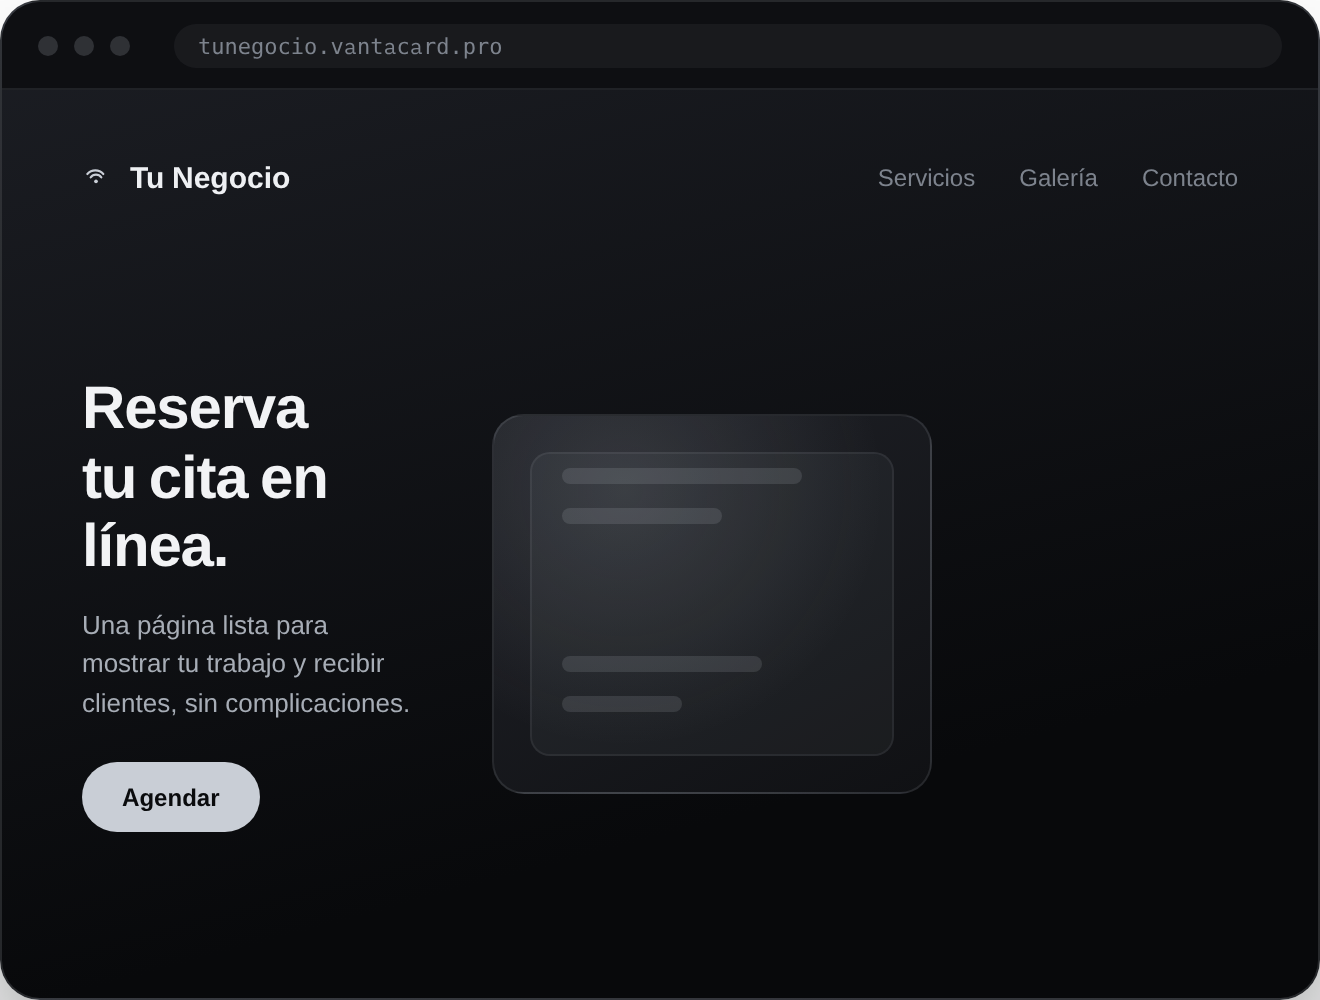
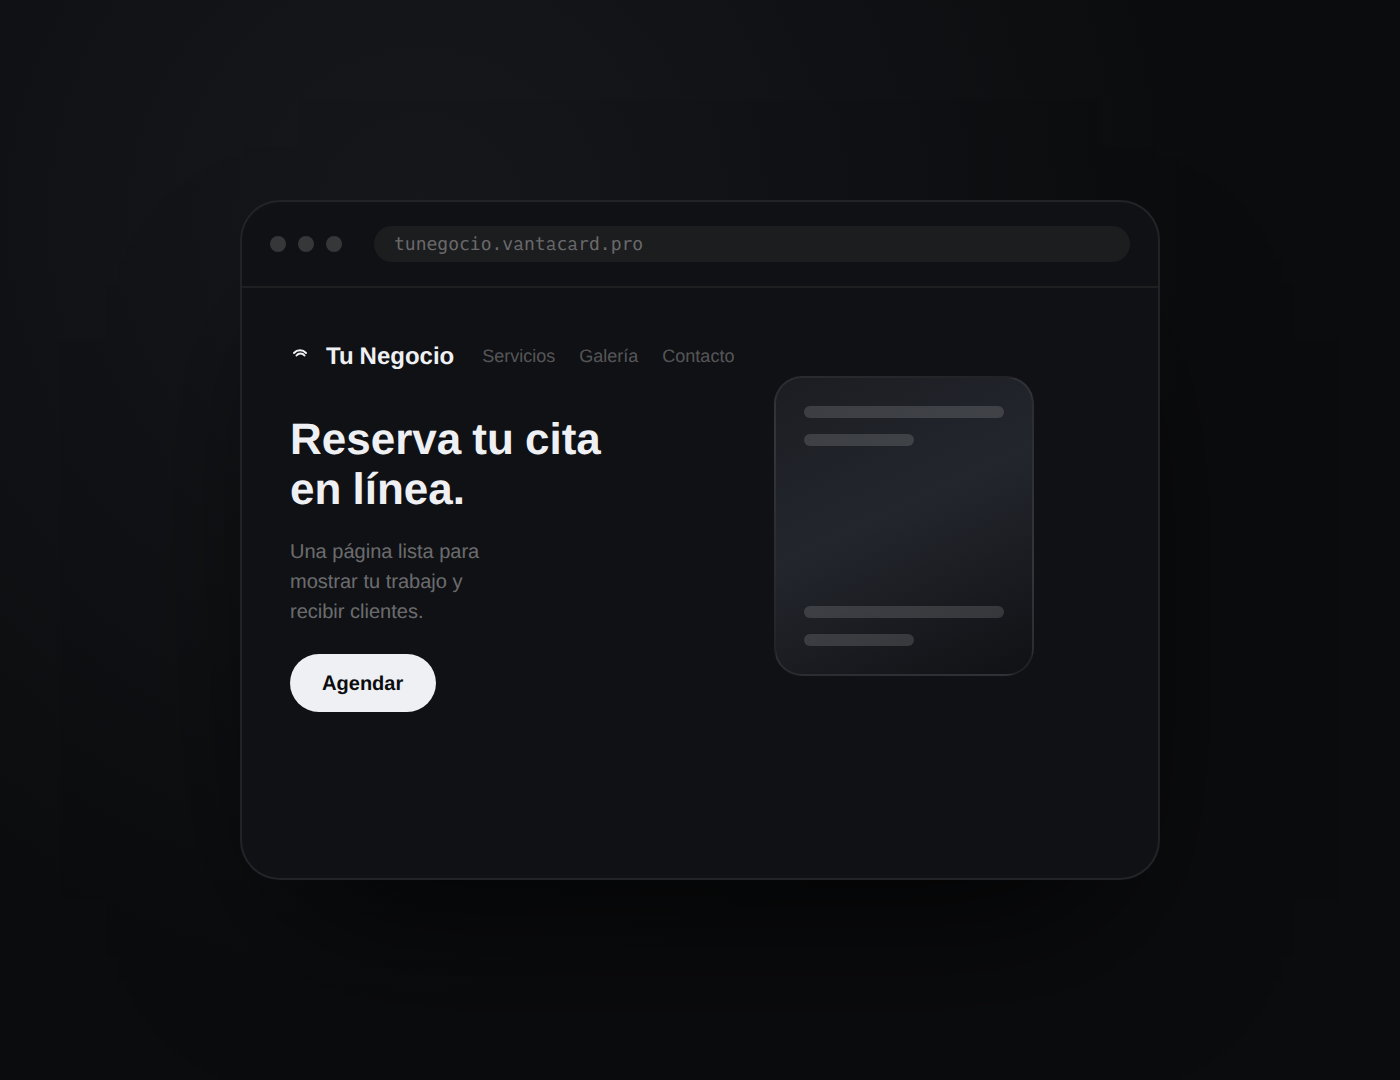
Refresh the three "Nuestros servicios" illustrations
- Website card: shrunk the browser mockup with more surrounding
  space so it reads as smaller within its tile.
- Cards card: replaced the two-card mockup with three blank,
  cascading dark cards floating at an angle, matching the reference
  the user provided.
- Digital-card tile: replaced the reused phone mockup with a
  dedicated QR-code + share-icon illustration, matching that card's
  own copy about the QR code and shareable link.

Claude-Session: https://claude.ai/code/session_01NcTCWAE41MsdWawZ7S8kq5

diff --git a/vantacard-web/index.html b/vantacard-web/index.html
@@ -242,21 +242,21 @@
       <div class="offerings__grid">
         <article class="offerings__item reveal-up">
           <div class="offerings__media">
-            <img src="assets/service-web.png" alt="Vista de una página web de negocio con navegación, encabezado y botón para agendar" loading="lazy" width="660" height="500" />
+            <img src="assets/service-web.png" alt="Vista de una página web de negocio con navegación, encabezado y botón para agendar" loading="lazy" width="1400" height="1080" />
           </div>
           <h3>Presencia Digital Empresarial</h3>
           <p>Una página web profesional diseñada para mostrar tu negocio y realizar citas.</p>
         </article>
         <article class="offerings__item reveal-up">
           <div class="offerings__media">
-            <img src="assets/service-cards.png" alt="Dos tarjetas VantaCard con NFC, superpuestas en ángulo" loading="lazy" width="700" height="540" />
+            <img src="assets/service-cards.png" alt="Tres tarjetas VantaCard con NFC, flotando en cascada" loading="lazy" width="1400" height="1080" />
           </div>
           <h3>Tarjetas de Presentación Inteligentes</h3>
           <p>Comparte tu información al instante con un solo toque.</p>
         </article>
         <article class="offerings__item reveal-up">
           <div class="offerings__media">
-            <img src="assets/mockup-profile.png" alt="Pantalla de perfil compartido de VantaCard en un teléfono" loading="lazy" width="600" height="800" />
+            <img src="assets/service-qr.png" alt="Tarjeta VantaCard con un código QR y un ícono de compartir" loading="lazy" width="1400" height="1080" />
           </div>
           <h3>Tarjeta de presentación digital</h3>
           <p>Incluye código QR, enlace propio y actualizaciones ilimitadas.</p>
